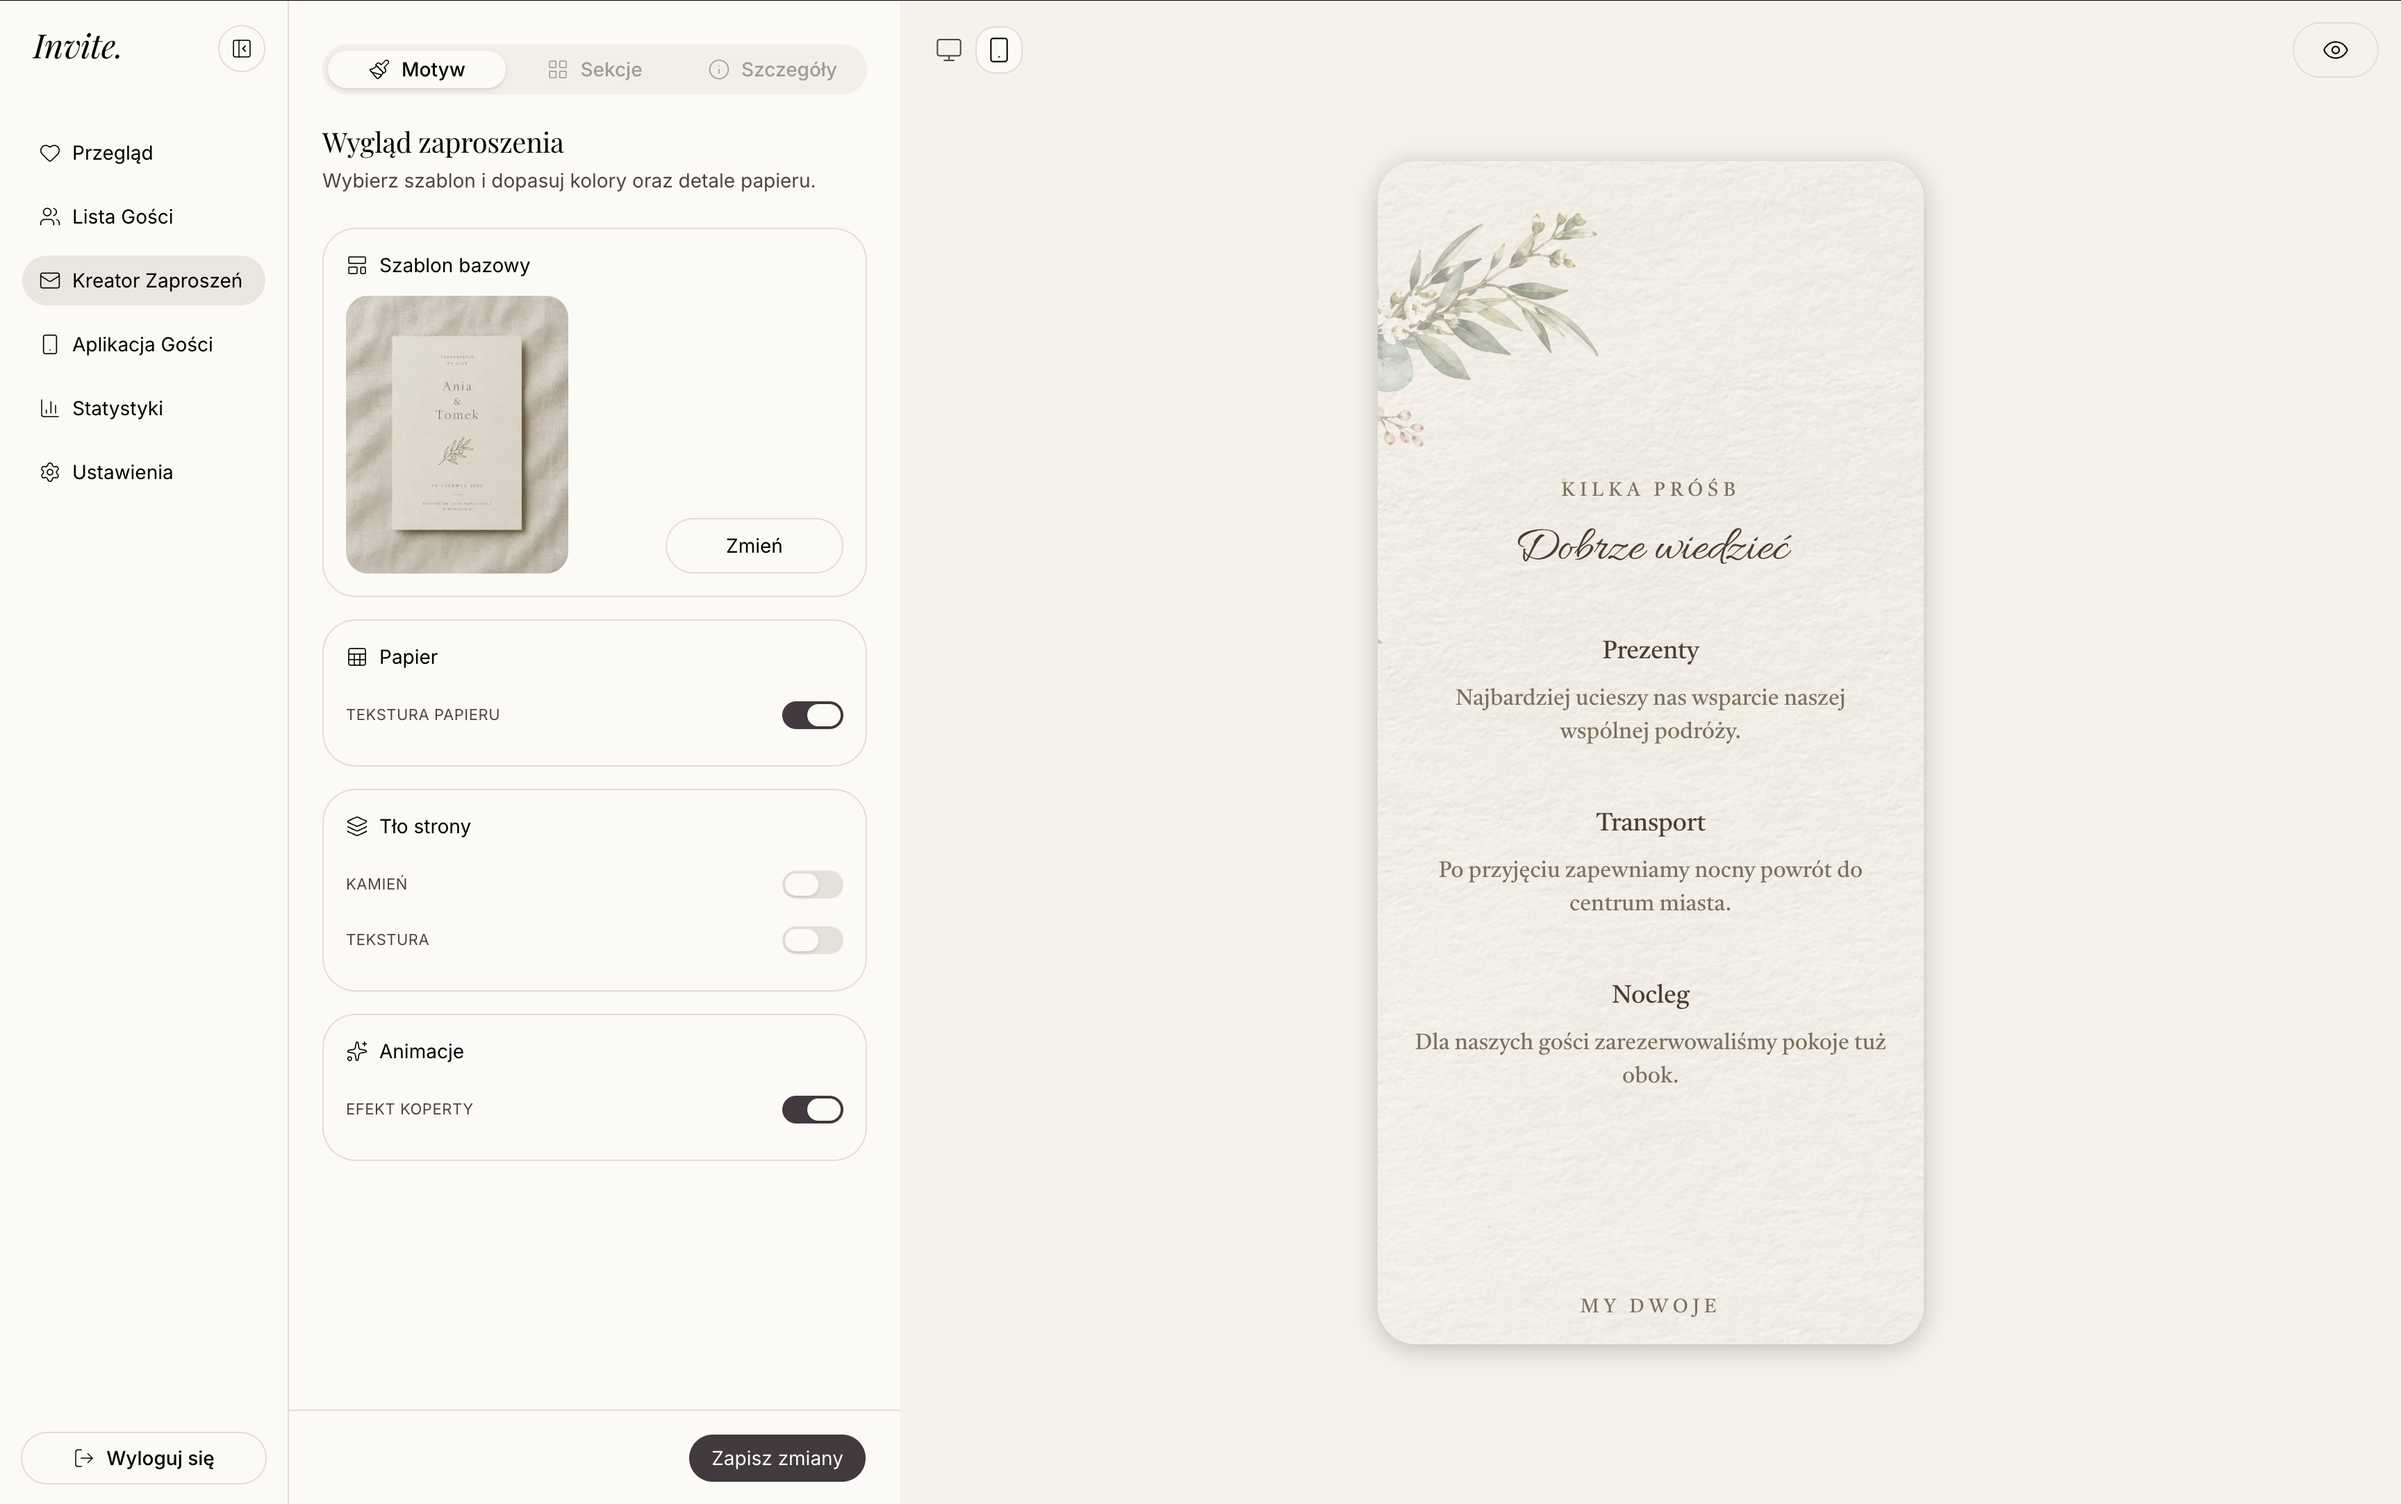
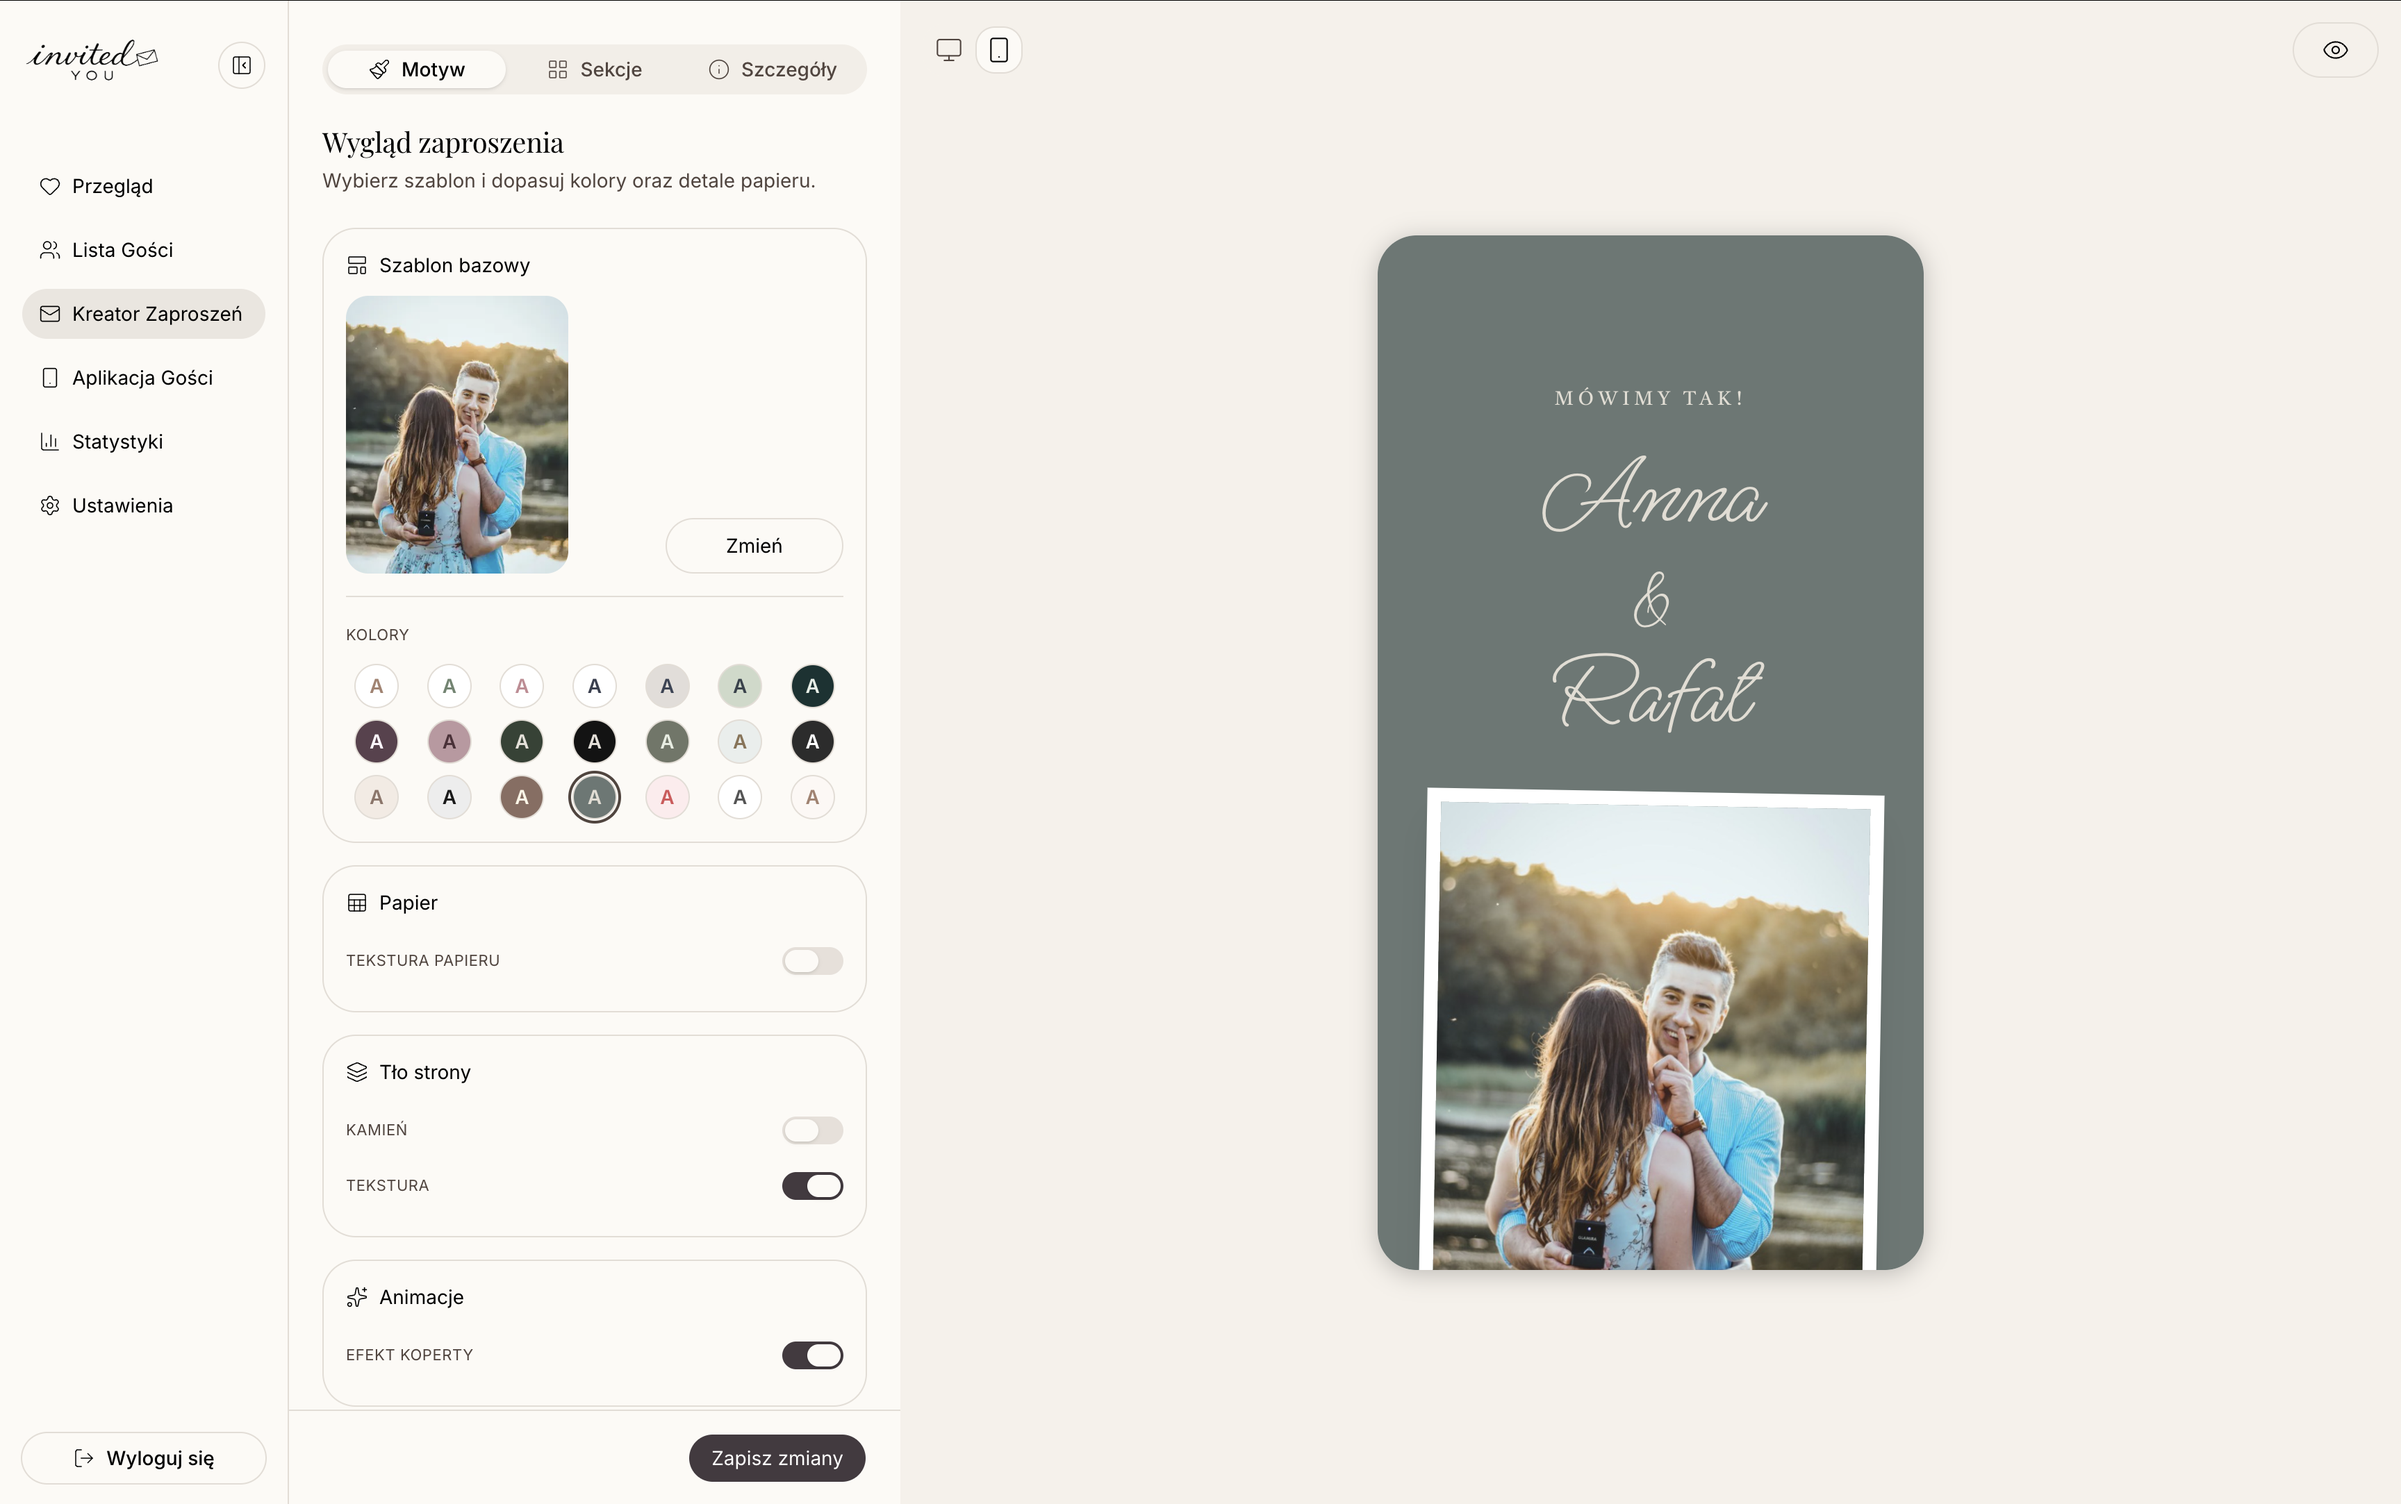
update invite details

diff --git a/src/data/image-blur-data.ts b/src/data/image-blur-data.ts
@@ -13,11 +13,13 @@ export const imageBlurData: Record<string, string> = {
[15 lines of base64/hex data omitted]
@@ -41,11 +43,13 @@ export const imageVersions: Record<string, string> = {
   "/projects/flowboard/Flowboard-1.png": "4742b443",
   "/projects/flowboard/Flowboard-2.png": "ea435f63",
   "/projects/invite/invite-1.png": "e5f38a06",
+  "/projects/invite/invite-10.png": "a1aef145",
   "/projects/invite/invite-4.png": "71f44ee0",
   "/projects/invite/invite-5.png": "e22da0da",
-  "/projects/invite/invite-6.png": "b8e70ebc",
-  "/projects/invite/invite-7.png": "36161b7f",
+  "/projects/invite/invite-6.png": "9983ddd1",
+  "/projects/invite/invite-7.png": "db2a1982",
   "/projects/invite/invite-8.png": "a26e392c",
+  "/projects/invite/invite-9.png": "5f16a0a4",
   "/projects/lerni/Lerni-1.png": "8f866f9a",
   "/projects/lerni/Lerni-2.png": "3ea263fd",
   "/projects/lerni/Lerni-3.png": "b38ccc41",
@@ -105,6 +109,10 @@ export const imageDimensions: Record<string, { width: number; height: number }> 
     "width": 3456,
     "height": 2166
   },
+  "/projects/invite/invite-10.png": {
+    "width": 770,
+    "height": 1688
+  },
   "/projects/invite/invite-4.png": {
     "width": 1358,
     "height": 1710
@@ -124,6 +132,10 @@ export const imageDimensions: Record<string, { width: number; height: number }> 
   "/projects/invite/invite-8.png": {
     "width": 3456,
     "height": 2166
+  },
+  "/projects/invite/invite-9.png": {
+    "width": 770,
+    "height": 1688
   },
   "/projects/lerni/Lerni-1.png": {
     "width": 3456,

diff --git a/src/data/projects/invite.ts b/src/data/projects/invite.ts
@@ -64,13 +64,13 @@ export const inviteProject: ProjectDetail = {
       title: "Invitation Theme & Preview",
       paragraphs: [
         "The invitation creator separates look and content across Theme, Sections, and Details tabs. Couples pick a base template, tune paper texture and page background, and can enable an envelope animation before saving.",
-        "A live preview on the right switches between desktop and mobile so copy and layout stay readable on phones - the screenshot shows the botanical template with an FAQ block guests will see on the published page.",
+        "A live preview on the right switches between desktop and mobile so copy and layout stay readable on phones - the screenshot shows a photo-led template with couple names and theme controls on the left.",
       ],
       image: {
         src: "/projects/invite/invite-6.png",
-        alt: "Invitation creator Theme tab with template picker, paper texture toggles, envelope animation, and mobile preview of FAQ section",
+        alt: "Invitation creator Theme tab with base template photo, color swatches, paper texture toggles, envelope animation, and mobile preview of Anna and Rafał invitation",
         caption:
-          "Theme controls with template selection and a live mobile preview.",
+          "Theme controls with template photo, colors, and a live mobile preview.",
       },
     },
     {
@@ -98,6 +98,25 @@ export const inviteProject: ProjectDetail = {
         caption:
           "Add groups from the sidebar form; track RSVPs and notes in the table.",
       },
+    },
+    {
+      title: "RSVP on the Published Invitation",
+      paragraphs: [
+        "Guests open the couple's subdomain and confirm attendance from a modal that greets them by name. They can say they are coming, decline, or note a plus-one before sending the response.",
+        "Copy explains they can change their mind and submit again until the deadline, so hosts get accurate counts without chasing people over text.",
+      ],
+      images: [
+        {
+          src: "/projects/invite/invite-9.png",
+          alt: "Mobile RSVP modal on the published invitation asking Edyta Testowa to confirm wedding attendance with attend, decline, and plus-one options",
+          caption: "Personalized RSVP on the live invitation page.",
+        },
+        {
+          src: "/projects/invite/invite-10.png",
+          alt: "Mobile RSVP modal on the published invitation with attendance choice selected and send response action",
+          caption: "Confirm choice and submit the response.",
+        },
+      ],
     },
   ],
   closing: [
